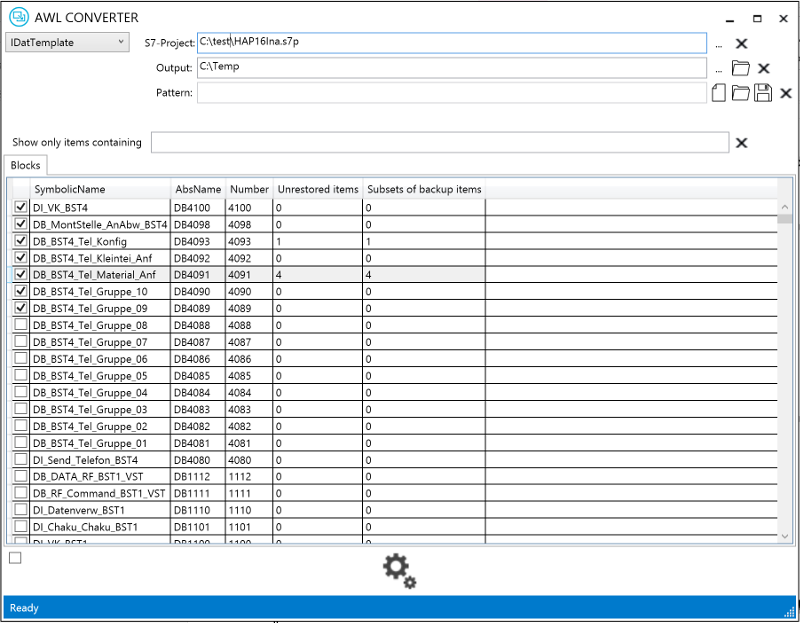
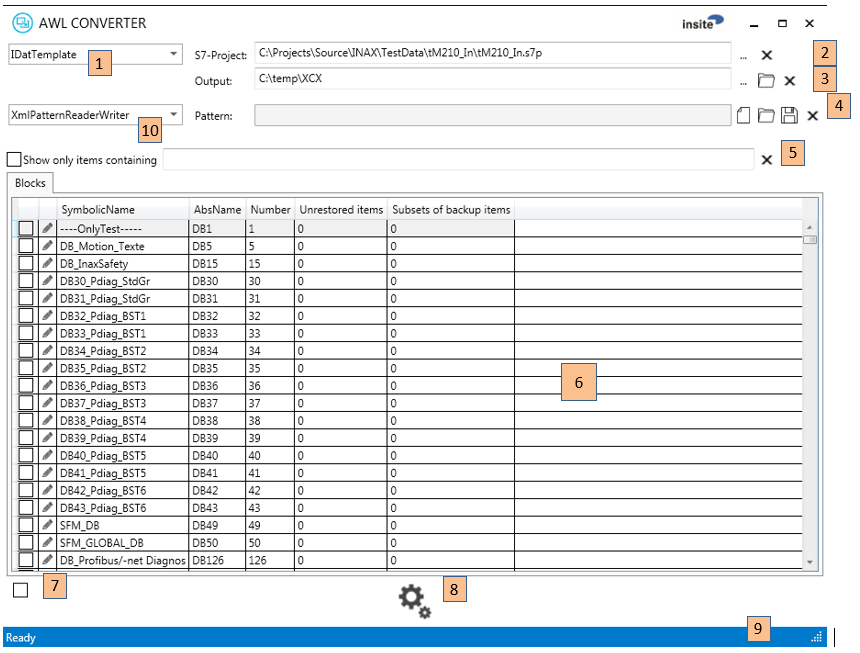
Update parasave documentation
Added new Images and also some further content

Changed region(s): [[0.0, 0.0, 1.0, 1.0]]

diff --git a/articles/AWLConverter.md b/articles/AWLConverter.md
@@ -65,6 +65,7 @@ $&#32;&#32;$ clear file/directory selection or text filter
   7.   Used to check/uncheck all items at once.
   8.   Start creation of output files. 
   9.   Status line. 
+  10.  Pattern reader writer. (This are reader writer modules to save and restore patterns in different formats)
 
 
 ---  
@@ -81,7 +82,8 @@ By clicking on a grid line (a PLC data block) in the main window, the FilterEdit
   2.   Tab to select the view that allows you to exclude certain items from a restore operation. In other words, the selected items are "read-only" in respect to the PLC data content.
   3.   Tab to select the view that allows you to narrow down the backed-up items to one or more subsets of the data block. *If there is no subset defined, all items are backed up!* Be aware, that the subset selection has no impact to the available items shown in other parts of the UI due to internal reasons. See below for details.
   4.   List with all available items. A double click on an item moves it to the section list below.
-  5.   List with the currently selected items. A double click on an item removes it from the list. 
+  5.   List with the currently selected items. A double click on an item removes it from the list.
+  6.   Apply the changes. 
 
 ---  
 #Using the FilterEditor#
@@ -101,6 +103,9 @@ Per default, the entire data block is read from the PLC and – in the case of t
 
 All the selections you make on the main window and in the FilterEditor can be saved in a pattern file. If you later open the same or a different PLC project and reload the saved pattern file, the AWLConverter will (try to) match the selections you made to the new symbolic content of the selected S7-project.
 
+We support different formats of such a pattern file. The `XMLPatternReaderWriter` is to save and restore the data like described above. The `ParasaveReaderWriter` can be used to apply the conviguration from a
+given Parasave.ini, but you can not write any changes back to the ini.
+
 ---  
 #Installation#
 
@@ -109,14 +114,3 @@ This requires the "Microsoft .NET Framework 4.5.2" to be installed and available
 
 The application files can be copied to any directory. The application can be started directly from this directory.
 
----  
-#Document History#
-
-
-<table><tr><th>Author </th><th> Date </th><th> Remarks</th></tr>
-<tr><td>Benjamin Prömmer </td><td> 2014-12-01 </td><td> Creation</td></tr>
-<tr><td>Karsten Gorkow </td><td> 2014-12-02 </td><td> Various corrections</td></tr>
-<tr><td>Karsten Gorkow </td><td> 2016-01-13 </td><td> Completely revised for the new AWL CONVERTER.</td></tr>
-</table>
-
-  
